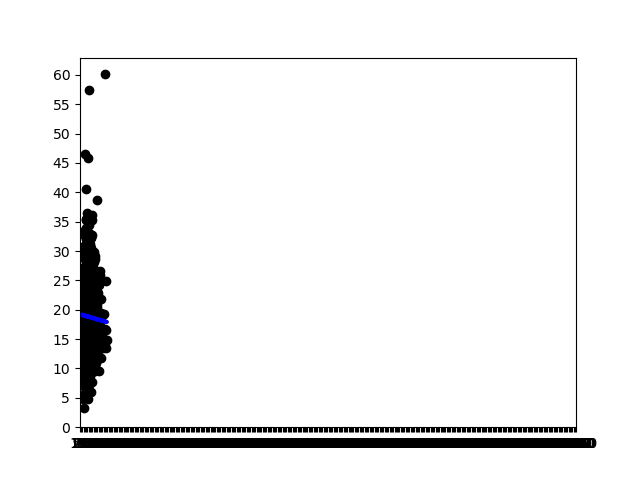
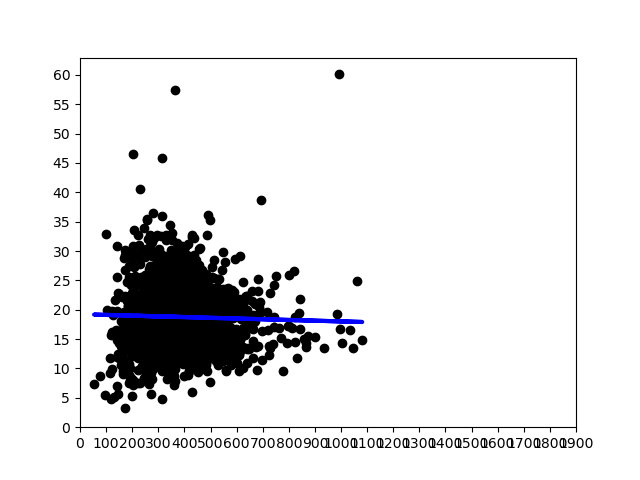
updated graphs

diff --git a/Processing/simple_regression.py b/Processing/simple_regression.py
@@ -67,7 +67,7 @@ plt.clf()
 plt.scatter(X2_test, y_test,color='black')
 plt.plot(X2_test, y2_pred, color='blue', linewidth=3)
 
-plt.xticks((np.arange(0, 20000, 50)))
+plt.xticks((np.arange(0, 2000, 100)))
 plt.yticks((np.arange(0, 65, 5)))
 
 plt.savefig('pf_simplereg.png')
